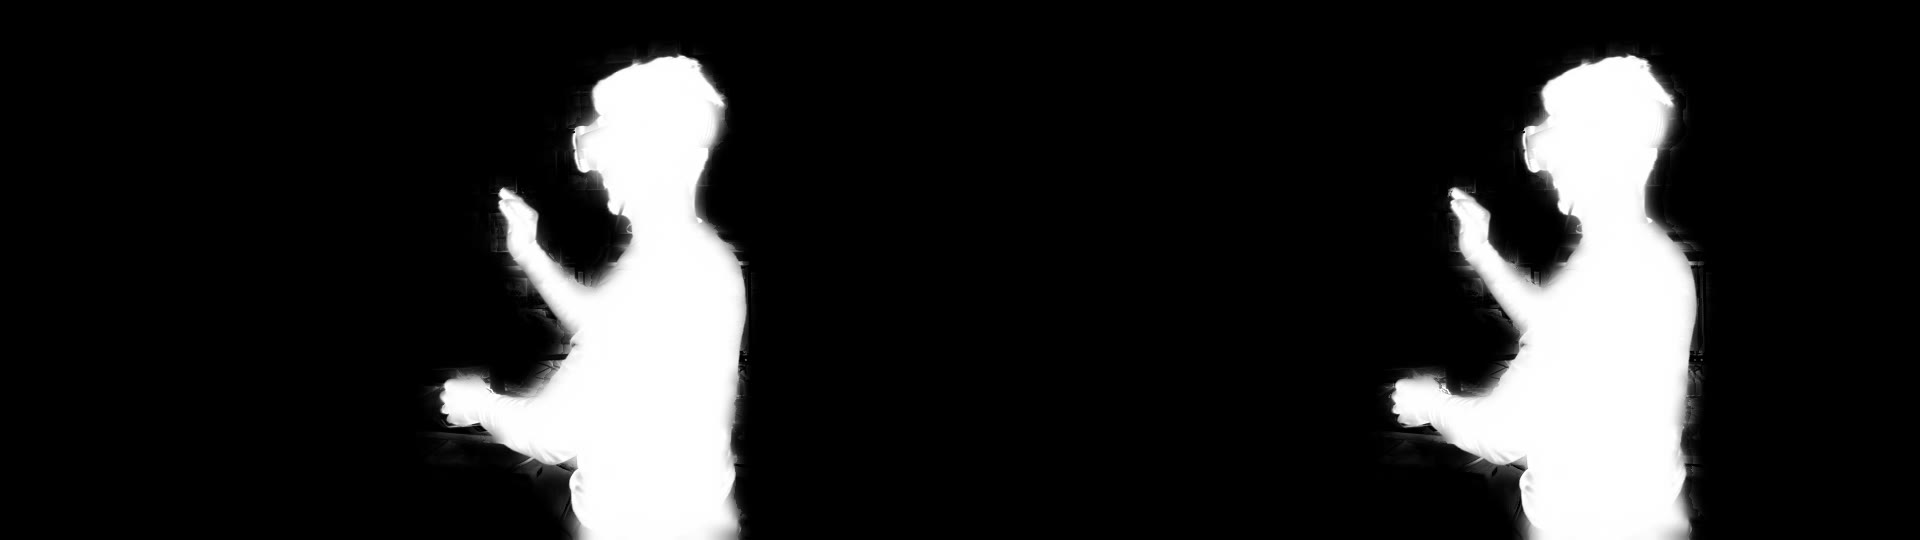
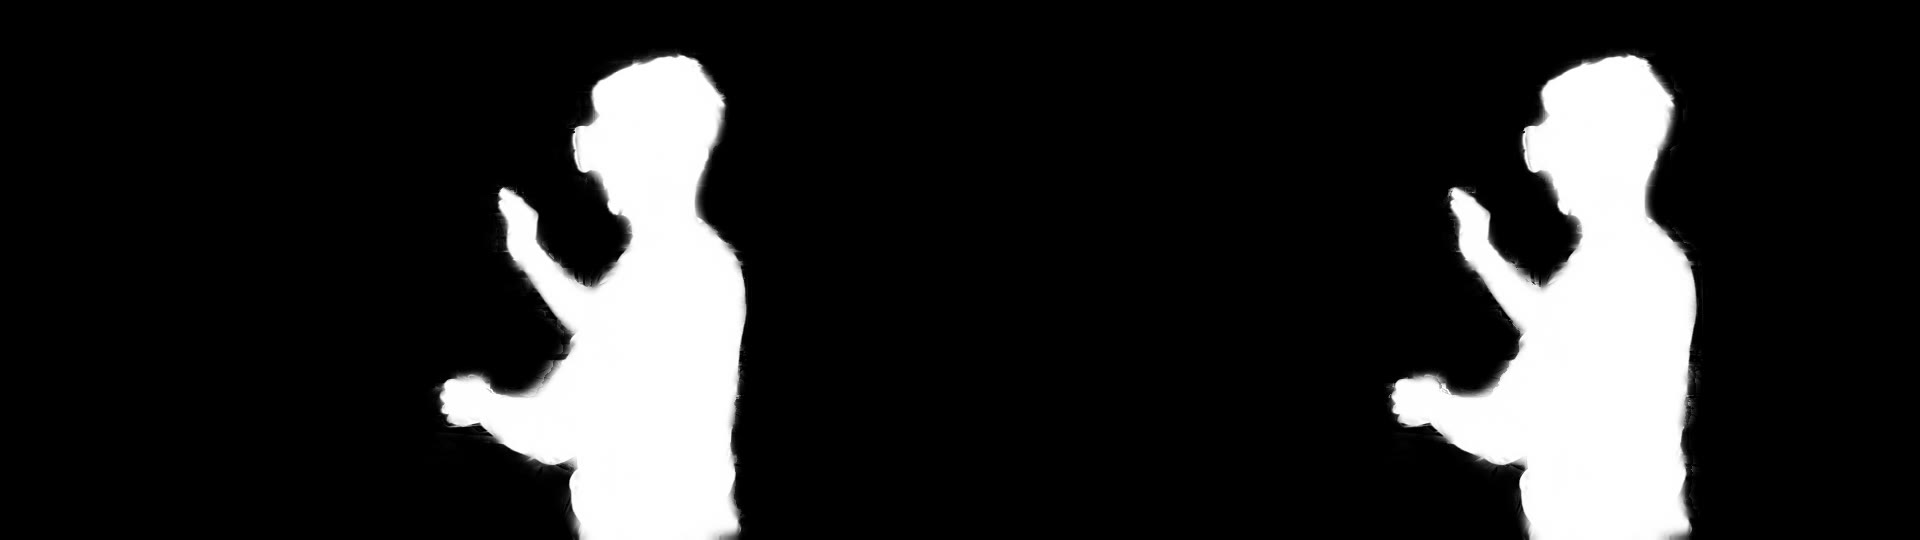
feat : qnn/sbs_portrait : 时域 EMA 增加运动门控并收窄软 alpha 过渡带（0.4–0.6）、减小引导滤波半径（r=4, eps=1e-4），消除光晕与运动拖影，final 的 ghost 0.0374→0.0120

diff --git a/qnn/sbs_portrait/sbs_portrait_bench.py b/qnn/sbs_portrait/sbs_portrait_bench.py
@@ -89,9 +89,10 @@ def main():
     ap.add_argument("--batch-eyes", action="store_true",
                     help="segment both eyes in one batch (default: one eye at a time, fits Swin-L in 8 GB)")
     ap.add_argument("--cache", default="", help="dir to cache per-frame segmentation (reuse across runs)")
-    ap.add_argument("--soft", default="0.3,0.7", help="smoothstep range prob -> alpha")
+    ap.add_argument("--soft", default="0.4,0.6", help="smoothstep range prob -> alpha")
     ap.add_argument("--lam", type=float, default=0.7, help="temporal EMA strength")
-    ap.add_argument("--gf", default="8,1e-3", help="guided filter radius,eps (work resolution)")
+    ap.add_argument("--gf", default="4,1e-4", help="guided filter radius,eps (work resolution)")
+    ap.add_argument("--gate", type=float, default=0.5, help="temporal EMA motion gate (0 = off)")
     ap.add_argument("--bg-margin", type=float, default=4.0,
                     help="px (full res) the background must stay behind the person's nearest disparity")
     ap.add_argument("--no-bg-shift", action="store_true", help="disable background depth placement")
@@ -152,7 +153,7 @@ def main():
 
     # ---------------- state ----------------
     acc = {c: ts.MetricAccumulator() for c in CONFIGS}
-    ema = {k: ts.TemporalEMA(args.lam) for k in ("T_L", "T_R", "G_L", "G_R")}
+    ema = {k: ts.TemporalEMA(args.lam, gate=args.gate) for k in ("T_L", "T_R", "G_L", "G_R")}
     prev_alpha = {c: None for c in CONFIGS}
     prev_comp = {c: None for c in CONFIGS}
     flicker_map = {c: np.zeros(ws[::-1], np.float32) for c in FLICKER_MAP_CONFIGS}

diff --git a/qnn/sbs_portrait/temporal_stereo.py b/qnn/sbs_portrait/temporal_stereo.py
@@ -163,11 +163,15 @@ class TemporalEMA:
     """Motion-compensated, confidence-weighted recursive filter.
 
     a_t = w * warp(a_{t-1}, flow) + (1 - w) * p_t
-    w   = lam * flow_valid * exp(-photo_err / sigma)
+    w   = lam * flow_valid * exp(-photo_err / sigma) * clip(1 - |p_t - warp(a_{t-1})| / gate, 0, 1)
+
+    The last term (motion gate) lets genuine changes (fast arm motion, flow
+    failure) pass through immediately, so the history does not leave trails,
+    while small boundary jitter is still damped.  gate=None disables it.
     """
 
-    def __init__(self, lam=0.7, sigma=10.0):
-        self.lam, self.sigma, self.prev = lam, sigma, None
+    def __init__(self, lam=0.7, sigma=10.0, gate=None):
+        self.lam, self.sigma, self.gate, self.prev = lam, sigma, gate, None
 
     def __call__(self, p, flow_b, valid, photo):
         if self.prev is None or flow_b is None:
@@ -175,6 +179,8 @@ class TemporalEMA:
             return p
         prev_w = warp_flow(self.prev, flow_b)
         w = self.lam * valid.astype(np.float32) * np.exp(-photo / self.sigma)
+        if self.gate:
+            w = w * np.clip(1.0 - np.abs(p - prev_w) / self.gate, 0.0, 1.0)
         a = w * prev_w + (1.0 - w) * p
         self.prev = a
         return a

diff --git a/qnn/sbs_portrait/results/metrics.md b/qnn/sbs_portrait/results/metrics.md
@@ -1,8 +1,8 @@
 | config | tIoU ↑ | tIoU p5 ↑ | 边界时域抖动 ↓ | sIoU ↑ | 边界左右差 ↓ | 与 raw IoU | ghost ↓ | 合成 warp 误差 ↓ | 后处理 ms | 总延迟 ms |
 |---|---|---|---|---|---|---|---|---|---|---|
 | raw | 0.9887 | 0.9788 | 0.0344 | 0.9845 | 0.0393 | 1.0000 | 0.0081 | 3.55 | 0.4 | 1009.3 |
-| soft | 0.9901 | 0.9812 | 0.0271 | 0.9842 | 0.0411 | 0.9697 | 0.0000 | 3.50 | 2.2 | 1011.1 |
-| soft+T | 0.9929 | 0.9866 | 0.0186 | 0.9847 | 0.0405 | 0.9687 | 0.0012 | 3.46 | 142.9 | 1151.8 |
-| soft+S | 0.9908 | 0.9836 | 0.0280 | 0.9987 | 0.0041 | 0.9673 | 0.0015 | 3.49 | 139.1 | 1148.0 |
-| soft+T+S | 0.9926 | 0.9884 | 0.0220 | 0.9987 | 0.0041 | 0.9666 | 0.0026 | 3.47 | 144.8 | 1153.7 |
-| final | 0.9933 | 0.9882 | 0.0233 | 0.9987 | 0.0037 | 0.9603 | 0.0374 | 3.44 | 157.0 | 1165.9 |
+| soft | 0.9899 | 0.9812 | 0.0282 | 0.9840 | 0.0411 | 0.9697 | 0.0000 | 3.51 | 2.2 | 1011.1 |
+| soft+T | 0.9902 | 0.9813 | 0.0265 | 0.9841 | 0.0414 | 0.9697 | 0.0001 | 3.50 | 143.7 | 1152.7 |
+| soft+S | 0.9908 | 0.9835 | 0.0289 | 0.9983 | 0.0046 | 0.9679 | 0.0014 | 3.50 | 138.6 | 1147.5 |
+| soft+T+S | 0.9905 | 0.9814 | 0.0280 | 0.9981 | 0.0045 | 0.9677 | 0.0015 | 3.50 | 145.6 | 1154.5 |
+| final | 0.9921 | 0.9818 | 0.0258 | 0.9989 | 0.0037 | 0.9651 | 0.0120 | 3.46 | 157.7 | 1166.6 |
